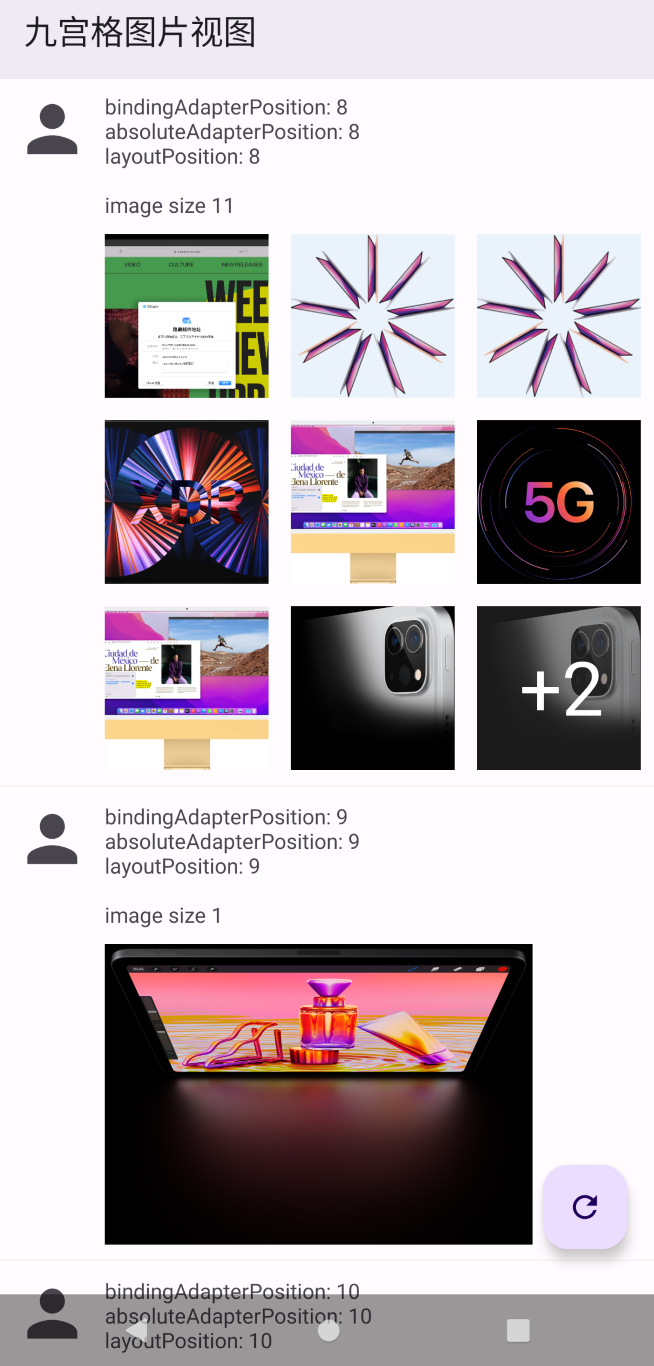
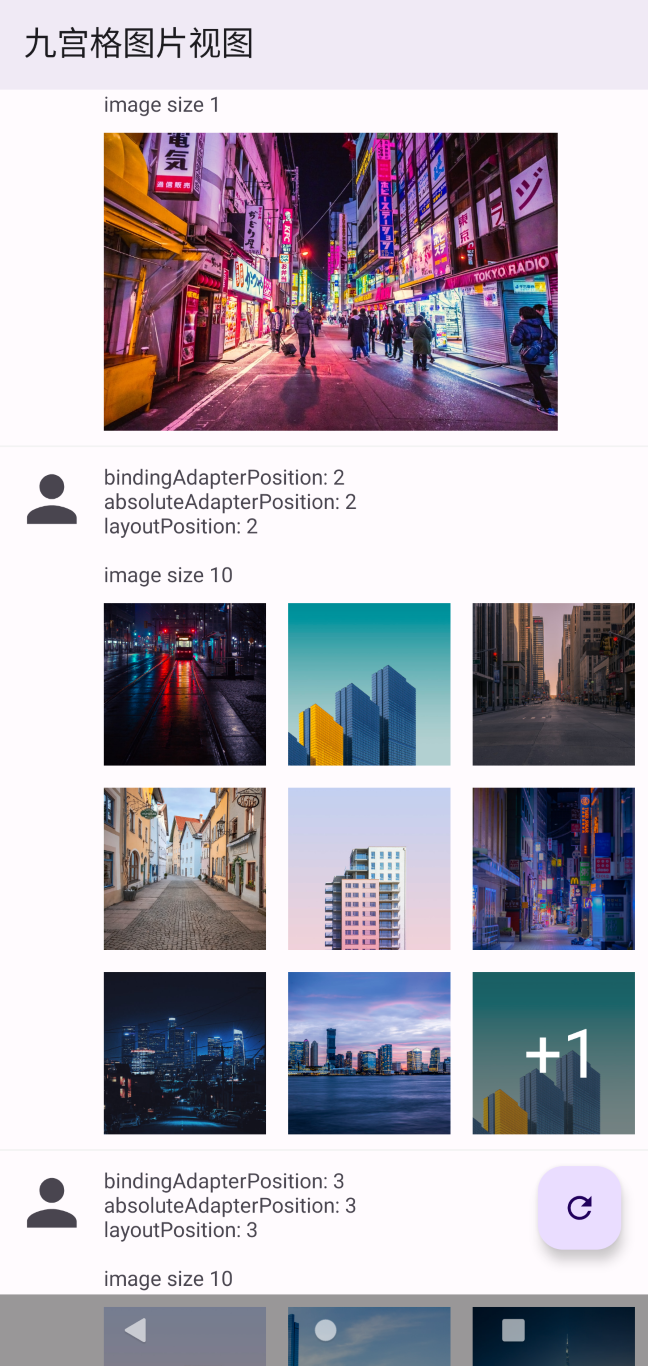
:pick: 调整演示图片

diff --git a/app/src/main/java/com/plain/ninegridimageview/Content.kt b/app/src/main/java/com/plain/ninegridimageview/Content.kt
@@ -25,20 +25,20 @@ SOFTWARE.
 package com.plain.ninegridimageview
 
 private val images = mutableListOf(
-    "https://www.apple.com.cn/mac/home/images/overview/holiday-2021/aos_hol21_mac_family_hero__gjmygt9ehwuq_large.jpg",
-    "https://www.apple.com.cn/v/macbook-pro-14-and-16/b/images/overview/performance/screen_processing__f36dk3ge7wey_large.jpg",
-    "https://www.apple.com.cn/v/macbook-pro-14-and-16/b/images/overview/performance/graphics_screen_endframe__bin7avhv5lci_large.jpg",
-    "https://www.apple.com.cn/v/macbook-pro-14-and-16/b/images/overview/display/screen_xdr__fksbj0zqvtu2_large.jpg",
-    "https://www.apple.com.cn/macos/monterey/images/overview/shortcuts_app__c3iufw18cfsm_large.png",
-    "https://www.apple.com.cn/macos/monterey/images/overview/icloud_hide_email__ezxbu9j7gscy_large.png",
-    "https://www.apple.com.cn/macos/monterey/images/overview/even_more__fdvcgx80tx6y_large.jpg",
-    "https://www.apple.com.cn/v/ipad-pro/ah/images/overview/experience/intro_chip_static__q0mhvwtkh8qe_large.jpg",
-    "https://www.apple.com.cn//v/ipad-pro/ah/images/overview/experience/intro_display_static__d19ubvnynzma_large.jpg",
-    "https://www.apple.com.cn/v/ipad-pro/ah/images/overview/experience/intro_5g_static__f8hdfylmpfu6_large.jpg",
-    "https://www.apple.com.cn/ipad-pro/images/overview/chip/m1_hero__d6vadsyfqbgy_large.jpg",
-    "https://www.apple.com.cn/ipad-pro/images/overview/display-liquid-retina/liquid_retina_endframe__e22htc2zu0cy_large.jpg",
-    "https://www.apple.com.cn/v/ipad-pro/ah/images/overview/cameras/cameras_rear__crhh6catjtme_large.jpg",
-    "https://www.apple.com.cn/ipad-pro/images/overview/thunderbolt/thunderbolt_hero__fg7vx8fb8ve6_large.jpg",
+    "https://images.unsplash.com/photo-1462007895615-c8c073bebcd8?ixlib=rb-1.2.1&ixid=MnwxMjA3fDB8MHxwaG90by1wYWdlfHx8fGVufDB8fHx8&auto=format&fit=crop&w=1170&q=80",
+    "https://images.unsplash.com/photo-1560840067-ddcaeb7831d2?ixlib=rb-1.2.1&ixid=MnwxMjA3fDB8MHxwaG90by1wYWdlfHx8fGVufDB8fHx8&auto=format&fit=crop&w=779&q=80",
+    "https://images.unsplash.com/photo-1581321825690-944511645947?ixlib=rb-1.2.1&ixid=MnwxMjA3fDB8MHxwaG90by1wYWdlfHx8fGVufDB8fHx8&auto=format&fit=crop&w=735&q=80",
+    "https://images.unsplash.com/photo-1514439827219-9137a0b99245?ixlib=rb-1.2.1&ixid=MnwxMjA3fDB8MHxwaG90by1wYWdlfHx8fGVufDB8fHx8&auto=format&fit=crop&w=687&q=80",
+    "https://images.unsplash.com/photo-1550763347-0736ab2976ea?ixlib=rb-1.2.1&ixid=MnwxMjA3fDB8MHxwaG90by1wYWdlfHx8fGVufDB8fHx8&auto=format&fit=crop&w=1170&q=80",
+    "https://images.unsplash.com/photo-1494488180300-4c634d1b2124?ixlib=rb-1.2.1&ixid=MnwxMjA3fDB8MHxwaG90by1wYWdlfHx8fGVufDB8fHx8&auto=format&fit=crop&w=1332&q=80",
+    "https://images.unsplash.com/photo-1603929260784-262f38411fe4?ixlib=rb-1.2.1&ixid=MnwxMjA3fDB8MHxwaG90by1wYWdlfHx8fGVufDB8fHx8&auto=format&fit=crop&w=687&q=80",
+    "https://images.unsplash.com/photo-1551641506-ee5bf4cb45f1?ixlib=rb-1.2.1&ixid=MnwxMjA3fDB8MHxwaG90by1wYWdlfHx8fGVufDB8fHx8&auto=format&fit=crop&w=1184&q=80",
+    "https://images.unsplash.com/photo-1513061379709-ef0cd1695189?ixlib=rb-1.2.1&ixid=MnwxMjA3fDB8MHxwaG90by1wYWdlfHx8fGVufDB8fHx8&auto=format&fit=crop&w=1219&q=80",
+    "https://images.unsplash.com/photo-1525095240410-9645dea911e4?ixlib=rb-1.2.1&ixid=MnwxMjA3fDB8MHxwaG90by1wYWdlfHx8fGVufDB8fHx8&auto=format&fit=crop&w=687&q=80",
+    "https://images.unsplash.com/photo-1516900557549-41557d405adf?ixlib=rb-1.2.1&ixid=MnwxMjA3fDB8MHxwaG90by1wYWdlfHx8fGVufDB8fHx8&auto=format&fit=crop&w=764&q=80",
+    "https://images.unsplash.com/photo-1567320743368-9db24e12ebf0?ixlib=rb-1.2.1&ixid=MnwxMjA3fDB8MHxwaG90by1wYWdlfHx8fGVufDB8fHx8&auto=format&fit=crop&w=839&q=80",
+    "https://images.unsplash.com/photo-1480374178950-b2c449be122e?ixlib=rb-1.2.1&ixid=MnwxMjA3fDB8MHxwaG90by1wYWdlfHx8fGVufDB8fHx8&auto=format&fit=crop&w=1170&q=80",
+    "https://images.unsplash.com/photo-1536599018102-9f803c140fc1?ixlib=rb-1.2.1&ixid=MnwxMjA3fDB8MHxwaG90by1wYWdlfHx8fGVufDB8fHx8&auto=format&fit=crop&w=1228&q=80",
 )
 
 private val randomImages: List<String>

diff --git a/README.md b/README.md
@@ -17,8 +17,8 @@ TODO
 
 本项目采用的图片资源来自以下网站
 
-- [演示图片来源](https://www.apple.com.cn)
-- [图标来源](https://www.iconfont.cn/user/detail?uid=19083)
+- [演示图片来源 - Unsplash](https://unsplash.com)
+- [图标来源 - Iconfont](https://www.iconfont.cn/user/detail?uid=19083)
 
 ## 感谢 ❤
 
